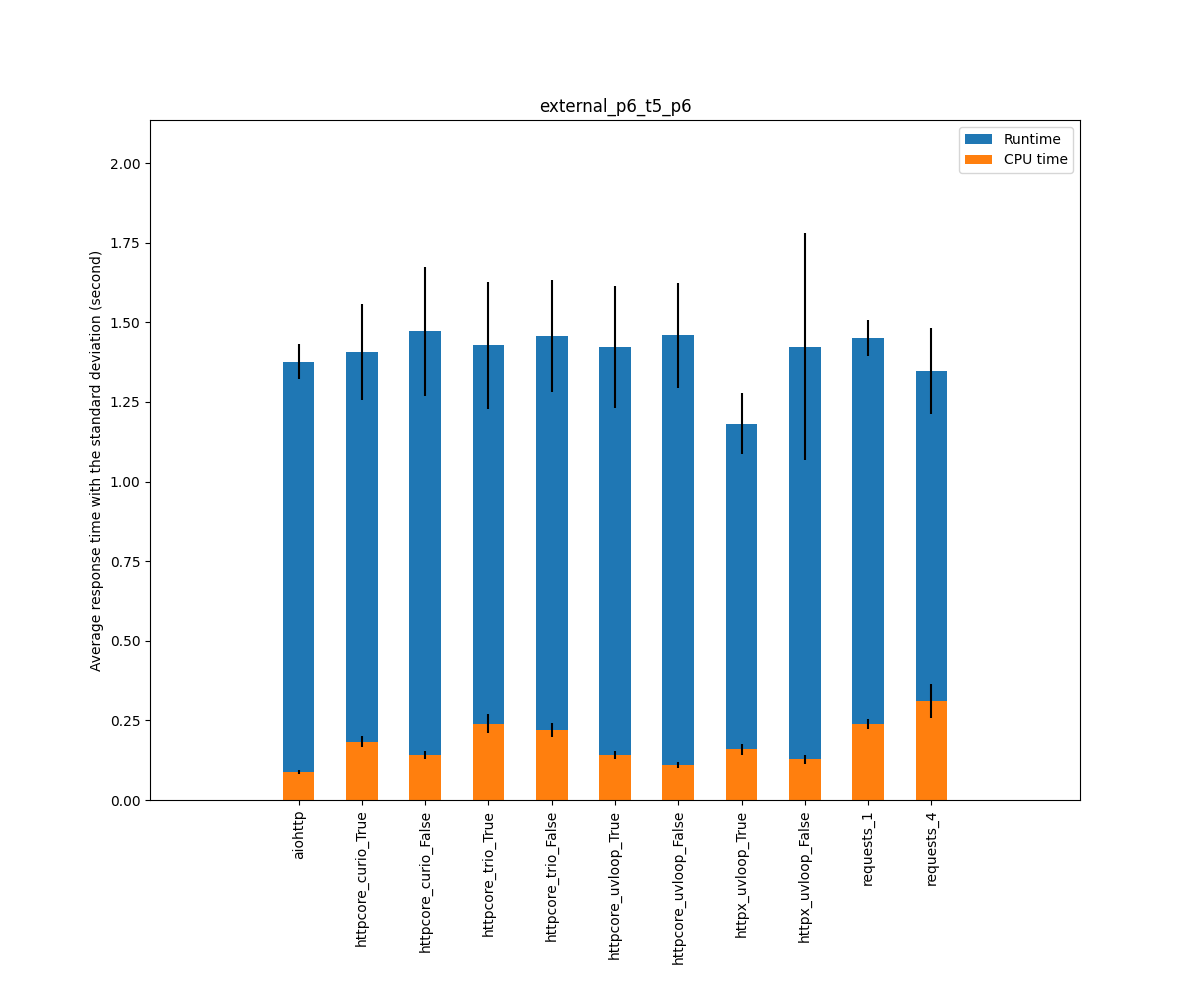
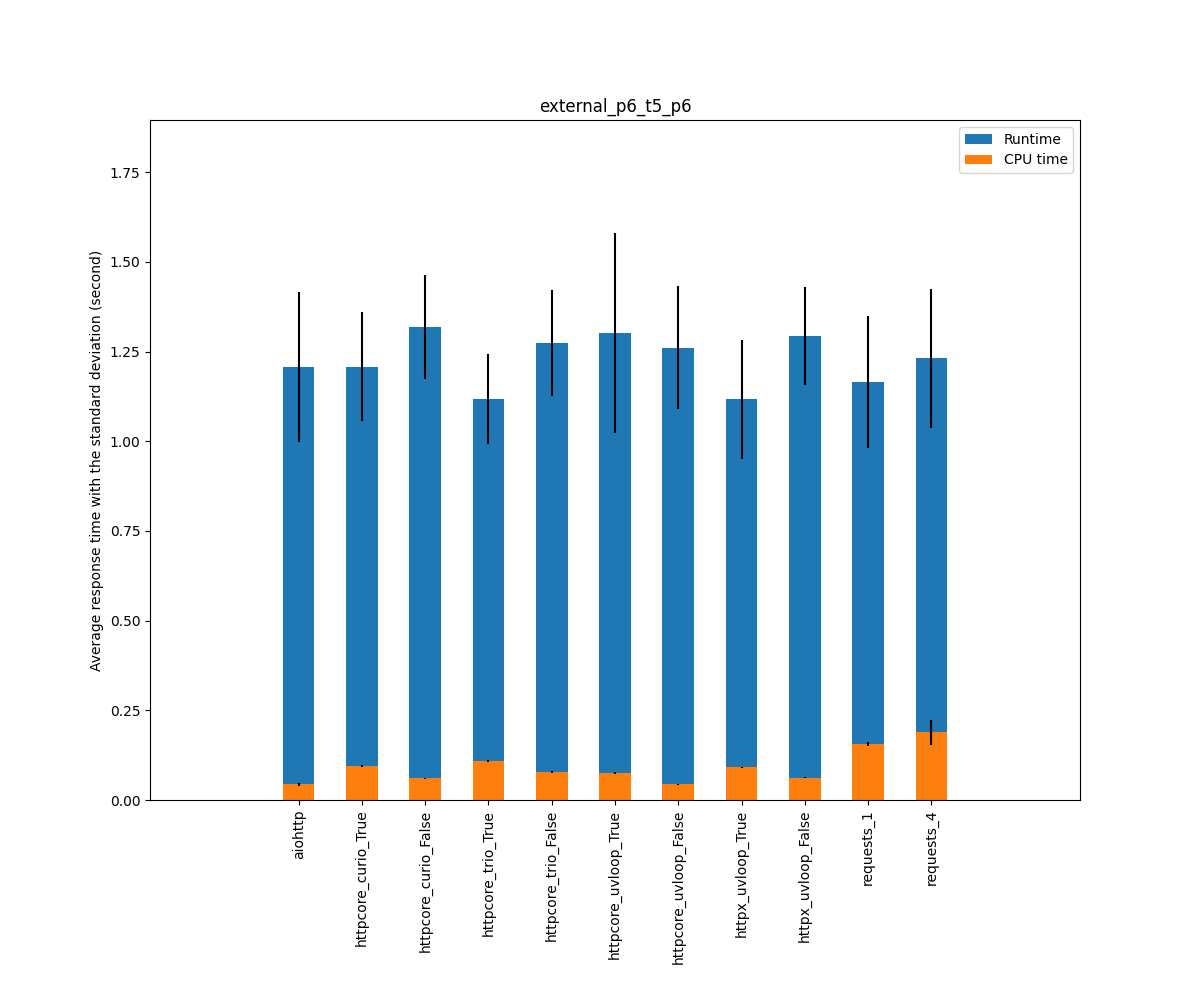
Update results, httpx 0.18.1

diff --git a/results/output.md b/results/output.md
@@ -1,13 +1,13 @@
 ## Versions
 
-* Python                         3.8.5 (default, Jul 28 2020, 12:59:40) [GCC 9.3.0]
-* aiohttp                        3.7.3
-* httpx                          0.16.1
-* httpcore                       0.12.2
-* requests                       2.25.0
-* uvloop                         0.14.0
-* trio                           0.17.0
-* curio                          1.4
+* Python                         3.9.5 (default, Jun  7 2021, 19:22:50) [GCC 8.3.0]
+* aiohttp                        3.7.4.post0
+* httpx                          0.18.1
+* httpcore                       0.13.3
+* requests                       2.25.1
+* uvloop                         0.15.2
+* trio                           0.18.0
+* curio                          1.5
 
 ## Context
 
@@ -15,23 +15,25 @@
 * Scenarios: external_p6_t5_p6, p6-8-5_t5_p6-8-5, p6-400-5_t5_p6-400-5, p100-2-5_t5_p100-2-5, s100_1_0, s100_2_0, s100_256_0, s100_1024_0, s30_8_4, p100_2048_5_t20_p100_2048_5, p60_1024_5
 * Tries: default
 
+Downloading https://github.com/caddyserver/caddy/releases/download/v2.1.1/caddy_2.1.1_linux_amd64.tar.gz 
+ to /home/alexandre/.cache/pyhttpbenchmark/bin/caddy
 
 ## Scenario external_p6_t5_p6: External requests: Two sequences of searx requests, 0.5s in between
 
 |                                  | Runtime |         |         | Cputime |         |         |
 |----------------------------------|---------|---------|---------|---------|---------|---------|
 |                                  |  median |    mean |   stdev |  median |    mean |   stdev |
-| aiohttp                          |    1.39 |    1.38 |    0.06 |    0.09 |    0.09 |    0.01 |
-| httpcore_curio_True              |    1.36 |    1.41 |    0.15 |    0.19 |    0.18 |    0.02 |
-| httpcore_curio_False             |    1.43 |    1.47 |    0.20 |    0.14 |    0.14 |    0.01 |
-| httpcore_trio_True               |    1.42 |    1.43 |    0.20 |    0.25 |    0.24 |    0.03 |
-| httpcore_trio_False              |    1.47 |    1.46 |    0.18 |    0.23 |    0.22 |    0.02 |
-| httpcore_uvloop_True             |    1.34 |    1.42 |    0.19 |    0.14 |    0.14 |    0.01 |
-| httpcore_uvloop_False            |    1.52 |    1.46 |    0.16 |    0.11 |    0.11 |    0.01 |
-| httpx_uvloop_True                |    1.17 |    1.18 |    0.09 |    0.16 |    0.16 |    0.02 |
-| httpx_uvloop_False               |    1.31 |    1.42 |    0.36 |    0.13 |    0.13 |    0.01 |
-| requests_1                       |    1.45 |    1.45 |    0.06 |    0.24 |    0.24 |    0.02 |
-| requests_4                       |    1.32 |    1.35 |    0.14 |    0.31 |    0.31 |    0.05 |
+| aiohttp                          |    1.16 |    1.21 |    0.21 |    0.04 |    0.04 |    0.00 |
+| httpcore_curio_True              |    1.23 |    1.21 |    0.15 |    0.10 |    0.09 |    0.00 |
+| httpcore_curio_False             |    1.36 |    1.32 |    0.15 |    0.06 |    0.06 |    0.00 |
+| httpcore_trio_True               |    1.10 |    1.12 |    0.13 |    0.11 |    0.11 |    0.00 |
+| httpcore_trio_False              |    1.35 |    1.27 |    0.15 |    0.08 |    0.08 |    0.00 |
+| httpcore_uvloop_True             |    1.31 |    1.30 |    0.28 |    0.08 |    0.08 |    0.00 |
+| httpcore_uvloop_False            |    1.36 |    1.26 |    0.17 |    0.04 |    0.04 |    0.00 |
+| httpx_uvloop_True                |    1.10 |    1.12 |    0.17 |    0.09 |    0.09 |    0.00 |
+| httpx_uvloop_False               |    1.35 |    1.29 |    0.14 |    0.06 |    0.06 |    0.00 |
+| requests_1                       |    1.16 |    1.17 |    0.18 |    0.16 |    0.16 |    0.00 |
+| requests_4                       |    1.18 |    1.23 |    0.19 |    0.19 |    0.19 |    0.04 |
 
 ![external_p6_t5_p6](external_p6_t5_p6.png)
 
@@ -41,17 +43,17 @@
 |                                  | Runtime |         |         | Cputime |         |         |
 |----------------------------------|---------|---------|---------|---------|---------|---------|
 |                                  |  median |    mean |   stdev |  median |    mean |   stdev |
-| aiohttp                          |    1.42 |    1.42 |    0.01 |    0.04 |    0.04 |    0.00 |
-| httpcore_curio_True              |    1.41 |    1.41 |    0.00 |    0.08 |    0.08 |    0.00 |
-| httpcore_curio_False             |    1.43 |    1.43 |    0.01 |    0.06 |    0.07 |    0.01 |
-| httpcore_trio_True               |    1.42 |    1.42 |    0.00 |    0.10 |    0.10 |    0.00 |
-| httpcore_trio_False              |    1.44 |    1.44 |    0.01 |    0.10 |    0.09 |    0.01 |
-| httpcore_uvloop_True             |    1.42 |    1.42 |    0.00 |    0.06 |    0.06 |    0.00 |
-| httpcore_uvloop_False            |    1.42 |    1.42 |    0.01 |    0.04 |    0.04 |    0.00 |
-| httpx_uvloop_True                |    1.43 |    1.42 |    0.00 |    0.08 |    0.08 |    0.01 |
-| httpx_uvloop_False               |    1.43 |    1.43 |    0.01 |    0.08 |    0.07 |    0.00 |
-| requests_1                       |    1.45 |    1.44 |    0.01 |    0.10 |    0.10 |    0.01 |
-| requests_4                       |    1.44 |    1.44 |    0.01 |    0.10 |    0.10 |    0.02 |
+| aiohttp                          |    1.42 |    1.42 |    0.00 |    0.03 |    0.03 |    0.00 |
+| httpcore_curio_True              |    1.41 |    1.41 |    0.00 |    0.07 |    0.07 |    0.00 |
+| httpcore_curio_False             |    1.46 |    1.46 |    0.00 |    0.05 |    0.05 |    0.00 |
+| httpcore_trio_True               |    1.41 |    1.41 |    0.00 |    0.08 |    0.08 |    0.00 |
+| httpcore_trio_False              |    1.43 |    1.43 |    0.00 |    0.07 |    0.07 |    0.00 |
+| httpcore_uvloop_True             |    1.41 |    1.41 |    0.00 |    0.05 |    0.05 |    0.00 |
+| httpcore_uvloop_False            |    1.42 |    1.42 |    0.00 |    0.03 |    0.03 |    0.00 |
+| httpx_uvloop_True                |    1.41 |    1.41 |    0.00 |    0.07 |    0.07 |    0.00 |
+| httpx_uvloop_False               |    1.42 |    1.42 |    0.00 |    0.05 |    0.05 |    0.00 |
+| requests_1                       |    1.43 |    1.43 |    0.00 |    0.07 |    0.07 |    0.00 |
+| requests_4                       |    1.43 |    1.43 |    0.00 |    0.07 |    0.07 |    0.00 |
 
 ![p6-8-5_t5_p6-8-5](p6-8-5_t5_p6-8-5.png)
 
@@ -61,17 +63,17 @@
 |                                  | Runtime |         |         | Cputime |         |         |
 |----------------------------------|---------|---------|---------|---------|---------|---------|
 |                                  |  median |    mean |   stdev |  median |    mean |   stdev |
-| aiohttp                          |    1.44 |    1.44 |    0.01 |    0.10 |    0.10 |    0.01 |
-| httpcore_curio_True              |    1.44 |    1.43 |    0.01 |    0.28 |    0.28 |    0.02 |
-| httpcore_curio_False             |    1.44 |    1.44 |    0.00 |    0.17 |    0.16 |    0.01 |
-| httpcore_trio_True               |    1.45 |    1.45 |    0.01 |    0.32 |    0.32 |    0.02 |
-| httpcore_trio_False              |    1.45 |    1.45 |    0.01 |    0.25 |    0.25 |    0.01 |
-| httpcore_uvloop_True             |    1.43 |    1.43 |    0.01 |    0.15 |    0.15 |    0.02 |
-| httpcore_uvloop_False            |    1.43 |    1.43 |    0.01 |    0.10 |    0.10 |    0.01 |
-| httpx_uvloop_True                |    1.44 |    1.44 |    0.01 |    0.19 |    0.20 |    0.01 |
-| httpx_uvloop_False               |    1.44 |    1.44 |    0.01 |    0.17 |    0.17 |    0.02 |
-| requests_1                       |    1.44 |    1.44 |    0.01 |    0.17 |    0.16 |    0.02 |
-| requests_4                       |    1.44 |    1.44 |    0.01 |    0.16 |    0.16 |    0.03 |
+| aiohttp                          |    1.42 |    1.42 |    0.00 |    0.07 |    0.07 |    0.00 |
+| httpcore_curio_True              |    1.42 |    1.42 |    0.00 |    0.22 |    0.22 |    0.00 |
+| httpcore_curio_False             |    1.47 |    1.47 |    0.01 |    0.13 |    0.13 |    0.00 |
+| httpcore_trio_True               |    1.43 |    1.43 |    0.00 |    0.24 |    0.24 |    0.01 |
+| httpcore_trio_False              |    1.44 |    1.44 |    0.00 |    0.18 |    0.18 |    0.00 |
+| httpcore_uvloop_True             |    1.42 |    1.42 |    0.00 |    0.12 |    0.12 |    0.00 |
+| httpcore_uvloop_False            |    1.42 |    1.42 |    0.00 |    0.07 |    0.07 |    0.00 |
+| httpx_uvloop_True                |    1.42 |    1.42 |    0.00 |    0.15 |    0.15 |    0.00 |
+| httpx_uvloop_False               |    1.43 |    1.43 |    0.00 |    0.12 |    0.12 |    0.00 |
+| requests_1                       |    1.43 |    1.43 |    0.00 |    0.13 |    0.13 |    0.00 |
+| requests_4                       |    1.43 |    1.43 |    0.00 |    0.13 |    0.13 |    0.00 |
 
 ![p6-400-5_t5_p6-400-5](p6-400-5_t5_p6-400-5.png)
 
@@ -81,17 +83,17 @@
 |                                  | Runtime |         |         | Cputime |         |         |
 |----------------------------------|---------|---------|---------|---------|---------|---------|
 |                                  |  median |    mean |   stdev |  median |    mean |   stdev |
-| aiohttp                          |    1.95 |    1.93 |    0.05 |    0.37 |    0.37 |    0.05 |
-| httpcore_curio_True              |    1.48 |    1.48 |    0.02 |    0.45 |    0.43 |    0.06 |
-| httpcore_curio_False             |    1.66 |    1.67 |    0.05 |    0.70 |    0.70 |    0.10 |
-| httpcore_trio_True               |    1.49 |    1.49 |    0.01 |    0.49 |    0.48 |    0.05 |
-| httpcore_trio_False              |    1.63 |    1.64 |    0.04 |    0.73 |    0.73 |    0.05 |
-| httpcore_uvloop_True             |    1.49 |    1.49 |    0.02 |    0.27 |    0.26 |    0.04 |
-| httpcore_uvloop_False            |    1.60 |    1.60 |    0.03 |    0.41 |    0.41 |    0.04 |
-| httpx_uvloop_True                |    1.49 |    1.49 |    0.01 |    0.43 |    0.41 |    0.04 |
-| httpx_uvloop_False               |    1.96 |    1.96 |    0.02 |    0.76 |    0.76 |    0.04 |
-| requests_1                       |    1.64 |    1.66 |    0.05 |    0.98 |    1.02 |    0.12 |
-| requests_4                       |    1.68 |    1.75 |    0.20 |    1.03 |    1.16 |    0.33 |
+| aiohttp                          |    1.96 |    1.96 |    0.03 |    0.30 |    0.29 |    0.00 |
+| httpcore_curio_True              |    1.47 |    1.47 |    0.01 |    0.34 |    0.34 |    0.01 |
+| httpcore_curio_False             |    1.64 |    1.64 |    0.01 |    0.58 |    0.58 |    0.01 |
+| httpcore_trio_True               |    1.48 |    1.48 |    0.01 |    0.46 |    0.45 |    0.01 |
+| httpcore_trio_False              |    1.63 |    1.63 |    0.00 |    0.64 |    0.64 |    0.01 |
+| httpcore_uvloop_True             |    1.47 |    1.48 |    0.01 |    0.22 |    0.23 |    0.01 |
+| httpcore_uvloop_False            |    1.60 |    1.60 |    0.01 |    0.38 |    0.38 |    0.00 |
+| httpx_uvloop_True                |    1.50 |    1.50 |    0.01 |    0.38 |    0.37 |    0.01 |
+| httpx_uvloop_False               |    1.95 |    1.96 |    0.02 |    0.66 |    0.66 |    0.01 |
+| requests_1                       |    1.68 |    1.68 |    0.01 |    0.83 |    0.83 |    0.01 |
+| requests_4                       |    1.73 |    1.72 |    0.03 |    0.89 |    0.88 |    0.02 |
 
 ![p100-2-5_t5_p100-2-5](p100-2-5_t5_p100-2-5.png)
 
@@ -101,17 +103,17 @@
 |                                  | Runtime |         |         | Cputime |         |         |
 |----------------------------------|---------|---------|---------|---------|---------|---------|
 |                                  |  median |    mean |   stdev |  median |    mean |   stdev |
-| aiohttp                          |    0.10 |    0.10 |    0.01 |    0.04 |    0.04 |    0.00 |
-| httpcore_curio_True              |    0.13 |    0.13 |    0.01 |    0.08 |    0.08 |    0.01 |
-| httpcore_curio_False             |    0.09 |    0.10 |    0.02 |    0.05 |    0.06 |    0.01 |
-| httpcore_trio_True               |    0.16 |    0.16 |    0.01 |    0.11 |    0.12 |    0.01 |
-| httpcore_trio_False              |    0.11 |    0.11 |    0.00 |    0.08 |    0.08 |    0.00 |
-| httpcore_uvloop_True             |    0.13 |    0.13 |    0.01 |    0.07 |    0.07 |    0.00 |
-| httpcore_uvloop_False            |    0.10 |    0.11 |    0.01 |    0.05 |    0.05 |    0.00 |
-| httpx_uvloop_True                |    0.17 |    0.18 |    0.02 |    0.11 |    0.11 |    0.01 |
-| httpx_uvloop_False               |    0.13 |    0.13 |    0.01 |    0.09 |    0.09 |    0.00 |
-| requests_1                       |    0.15 |    0.16 |    0.01 |    0.10 |    0.10 |    0.01 |
-| requests_4                       |    0.16 |    0.17 |    0.02 |    0.10 |    0.11 |    0.01 |
+| aiohttp                          |    0.17 |    0.17 |    0.01 |    0.07 |    0.07 |    0.00 |
+| httpcore_curio_True              |    0.29 |    0.28 |    0.01 |    0.18 |    0.18 |    0.01 |
+| httpcore_curio_False             |    0.24 |    0.24 |    0.00 |    0.12 |    0.12 |    0.00 |
+| httpcore_trio_True               |    0.33 |    0.33 |    0.01 |    0.24 |    0.24 |    0.01 |
+| httpcore_trio_False              |    0.21 |    0.21 |    0.01 |    0.14 |    0.14 |    0.00 |
+| httpcore_uvloop_True             |    0.27 |    0.28 |    0.01 |    0.15 |    0.15 |    0.01 |
+| httpcore_uvloop_False            |    0.19 |    0.19 |    0.01 |    0.09 |    0.09 |    0.01 |
+| httpx_uvloop_True                |    0.35 |    0.36 |    0.01 |    0.24 |    0.24 |    0.01 |
+| httpx_uvloop_False               |    0.22 |    0.22 |    0.01 |    0.14 |    0.14 |    0.01 |
+| requests_1                       |    0.28 |    0.28 |    0.01 |    0.17 |    0.18 |    0.01 |
+| requests_4                       |    0.33 |    0.33 |    0.03 |    0.20 |    0.20 |    0.02 |
 
 ![s100_1_0](s100_1_0.png)
 
@@ -121,17 +123,17 @@
 |                                  | Runtime |         |         | Cputime |         |         |
 |----------------------------------|---------|---------|---------|---------|---------|---------|
 |                                  |  median |    mean |   stdev |  median |    mean |   stdev |
-| aiohttp                          |    0.10 |    0.10 |    0.01 |    0.04 |    0.05 |    0.00 |
-| httpcore_curio_True              |    0.13 |    0.13 |    0.01 |    0.08 |    0.08 |    0.01 |
-| httpcore_curio_False             |    0.09 |    0.09 |    0.01 |    0.05 |    0.05 |    0.00 |
-| httpcore_trio_True               |    0.16 |    0.16 |    0.01 |    0.11 |    0.11 |    0.01 |
-| httpcore_trio_False              |    0.11 |    0.11 |    0.01 |    0.08 |    0.08 |    0.00 |
-| httpcore_uvloop_True             |    0.12 |    0.14 |    0.04 |    0.07 |    0.07 |    0.02 |
-| httpcore_uvloop_False            |    0.10 |    0.10 |    0.01 |    0.05 |    0.05 |    0.00 |
-| httpx_uvloop_True                |    0.18 |    0.19 |    0.02 |    0.12 |    0.12 |    0.01 |
-| httpx_uvloop_False               |    0.14 |    0.15 |    0.02 |    0.09 |    0.10 |    0.01 |
-| requests_1                       |    0.16 |    0.17 |    0.01 |    0.11 |    0.11 |    0.00 |
-| requests_4                       |    0.17 |    0.18 |    0.02 |    0.11 |    0.12 |    0.01 |
+| aiohttp                          |    0.18 |    0.18 |    0.01 |    0.07 |    0.08 |    0.01 |
+| httpcore_curio_True              |    0.29 |    0.29 |    0.02 |    0.18 |    0.18 |    0.01 |
+| httpcore_curio_False             |    0.24 |    0.24 |    0.00 |    0.12 |    0.12 |    0.00 |
+| httpcore_trio_True               |    0.33 |    0.33 |    0.01 |    0.24 |    0.24 |    0.01 |
+| httpcore_trio_False              |    0.20 |    0.20 |    0.00 |    0.14 |    0.14 |    0.00 |
+| httpcore_uvloop_True             |    0.28 |    0.28 |    0.02 |    0.15 |    0.15 |    0.01 |
+| httpcore_uvloop_False            |    0.19 |    0.19 |    0.01 |    0.09 |    0.09 |    0.01 |
+| httpx_uvloop_True                |    0.38 |    0.37 |    0.01 |    0.25 |    0.25 |    0.01 |
+| httpx_uvloop_False               |    0.24 |    0.24 |    0.01 |    0.15 |    0.15 |    0.01 |
+| requests_1                       |    0.30 |    0.30 |    0.01 |    0.19 |    0.19 |    0.01 |
+| requests_4                       |    0.34 |    0.33 |    0.02 |    0.20 |    0.20 |    0.01 |
 
 ![s100_2_0](s100_2_0.png)
 
@@ -141,17 +143,17 @@
 |                                  | Runtime |         |         | Cputime |         |         |
 |----------------------------------|---------|---------|---------|---------|---------|---------|
 |                                  |  median |    mean |   stdev |  median |    mean |   stdev |
-| aiohttp                          |    0.18 |    0.18 |    0.01 |    0.11 |    0.12 |    0.01 |
-| httpcore_curio_True              |    0.61 |    0.61 |    0.03 |    0.42 |    0.42 |    0.02 |
-| httpcore_curio_False             |    0.21 |    0.21 |    0.01 |    0.17 |    0.17 |    0.01 |
-| httpcore_trio_True               |    0.50 |    0.54 |    0.12 |    0.45 |    0.49 |    0.11 |
-| httpcore_trio_False              |    0.30 |    0.31 |    0.03 |    0.26 |    0.27 |    0.02 |
-| httpcore_uvloop_True             |    0.23 |    0.23 |    0.01 |    0.17 |    0.17 |    0.01 |
-| httpcore_uvloop_False            |    0.16 |    0.16 |    0.01 |    0.11 |    0.11 |    0.01 |
-| httpx_uvloop_True                |    0.35 |    0.35 |    0.03 |    0.28 |    0.28 |    0.02 |
-| httpx_uvloop_False               |    0.26 |    0.27 |    0.02 |    0.21 |    0.21 |    0.01 |
-| requests_1                       |    0.22 |    0.23 |    0.01 |    0.17 |    0.17 |    0.01 |
-| requests_4                       |    0.24 |    0.25 |    0.01 |    0.18 |    0.18 |    0.00 |
+| aiohttp                          |    0.52 |    0.55 |    0.14 |    0.23 |    0.23 |    0.01 |
+| httpcore_curio_True              |    0.99 |    0.98 |    0.07 |    0.79 |    0.79 |    0.02 |
+| httpcore_curio_False             |    0.81 |    0.95 |    0.57 |    0.36 |    0.37 |    0.05 |
+| httpcore_trio_True               |    1.01 |    1.03 |    0.07 |    0.90 |    0.89 |    0.02 |
+| httpcore_trio_False              |    1.20 |    1.36 |    0.67 |    0.57 |    0.59 |    0.08 |
+| httpcore_uvloop_True             |    0.51 |    0.52 |    0.06 |    0.36 |    0.36 |    0.01 |
+| httpcore_uvloop_False            |    1.66 |    1.63 |    0.54 |    0.29 |    0.29 |    0.02 |
+| httpx_uvloop_True                |    1.21 |    1.14 |    0.23 |    0.58 |    0.58 |    0.02 |
+| httpx_uvloop_False               |    0.87 |    1.02 |    0.39 |    0.45 |    0.45 |    0.04 |
+| requests_1                       |    0.75 |    0.78 |    0.23 |    0.36 |    0.37 |    0.03 |
+| requests_4                       |    0.70 |    0.67 |    0.21 |    0.38 |    0.37 |    0.04 |
 
 ![s100_256_0](s100_256_0.png)
 
@@ -161,17 +163,17 @@
 |                                  | Runtime |         |         | Cputime |         |         |
 |----------------------------------|---------|---------|---------|---------|---------|---------|
 |                                  |  median |    mean |   stdev |  median |    mean |   stdev |
-| aiohttp                          |    0.39 |    0.40 |    0.02 |    0.31 |    0.32 |    0.02 |
-| httpcore_curio_True              |    1.72 |    1.74 |    0.09 |    1.36 |    1.37 |    0.08 |
-| httpcore_curio_False             |    0.57 |    0.58 |    0.02 |    0.53 |    0.54 |    0.02 |
-| httpcore_trio_True               |    1.55 |    1.57 |    0.09 |    1.49 |    1.51 |    0.09 |
-| httpcore_trio_False              |    0.92 |    0.90 |    0.06 |    0.88 |    0.85 |    0.06 |
-| httpcore_uvloop_True             |    0.52 |    0.53 |    0.04 |    0.45 |    0.46 |    0.03 |
-| httpcore_uvloop_False            |    0.38 |    0.38 |    0.01 |    0.32 |    0.32 |    0.01 |
-| httpx_uvloop_True                |    0.84 |    0.85 |    0.07 |    0.75 |    0.76 |    0.07 |
-| httpx_uvloop_False               |    0.64 |    0.64 |    0.03 |    0.57 |    0.57 |    0.03 |
-| requests_1                       |    0.55 |    0.56 |    0.03 |    0.47 |    0.48 |    0.02 |
-| requests_4                       |    0.56 |    0.58 |    0.06 |    0.48 |    0.50 |    0.05 |
+| aiohttp                          |    1.00 |    1.00 |    0.20 |    0.60 |    0.60 |    0.01 |
+| httpcore_curio_True              |    2.94 |    3.00 |    0.26 |    2.33 |    2.34 |    0.06 |
+| httpcore_curio_False             |    1.21 |    1.37 |    0.39 |    1.01 |    1.02 |    0.04 |
+| httpcore_trio_True               |    2.91 |    3.05 |    0.30 |    2.70 |    2.71 |    0.05 |
+| httpcore_trio_False              |    1.74 |    1.92 |    0.37 |    1.55 |    1.55 |    0.04 |
+| httpcore_uvloop_True             |    1.31 |    1.40 |    0.30 |    0.96 |    0.96 |    0.02 |
+| httpcore_uvloop_False            |    1.20 |    1.24 |    0.40 |    0.61 |    0.62 |    0.02 |
+| httpx_uvloop_True                |    1.87 |    1.94 |    0.36 |    1.36 |    1.35 |    0.04 |
+| httpx_uvloop_False               |    1.41 |    1.45 |    0.18 |    1.10 |    1.09 |    0.02 |
+| requests_1                       |    1.23 |    1.25 |    0.15 |    0.94 |    0.93 |    0.02 |
+| requests_4                       |    1.25 |    1.40 |    0.45 |    0.93 |    0.94 |    0.03 |
 
 ![s100_1024_0](s100_1024_0.png)
 
@@ -181,17 +183,17 @@
 |                                  | Runtime |         |         | Cputime |         |         |
 |----------------------------------|---------|---------|---------|---------|---------|---------|
 |                                  |  median |    mean |   stdev |  median |    mean |   stdev |
-| aiohttp                          |    0.46 |    0.46 |    0.02 |    0.05 |    0.05 |    0.01 |
-| httpcore_curio_True              |    0.44 |    0.45 |    0.01 |    0.05 |    0.05 |    0.01 |
-| httpcore_curio_False             |    0.46 |    0.46 |    0.01 |    0.07 |    0.08 |    0.01 |
-| httpcore_trio_True               |    0.45 |    0.46 |    0.01 |    0.06 |    0.06 |    0.01 |
-| httpcore_trio_False              |    0.48 |    0.47 |    0.01 |    0.11 |    0.11 |    0.01 |
-| httpcore_uvloop_True             |    0.43 |    0.43 |    0.01 |    0.03 |    0.04 |    0.01 |
-| httpcore_uvloop_False            |    0.46 |    0.46 |    0.01 |    0.06 |    0.05 |    0.01 |
-| httpx_uvloop_True                |    0.45 |    0.45 |    0.01 |    0.05 |    0.05 |    0.01 |
-| httpx_uvloop_False               |    0.47 |    0.46 |    0.01 |    0.10 |    0.09 |    0.01 |
-| requests_1                       |    0.49 |    0.48 |    0.01 |    0.18 |    0.18 |    0.02 |
-| requests_4                       |    0.50 |    0.49 |    0.01 |    0.20 |    0.19 |    0.02 |
+| aiohttp                          |    0.46 |    0.46 |    0.02 |    0.05 |    0.05 |    0.00 |
+| httpcore_curio_True              |    0.50 |    0.50 |    0.00 |    0.06 |    0.06 |    0.00 |
+| httpcore_curio_False             |    0.52 |    0.52 |    0.00 |    0.10 |    0.10 |    0.00 |
+| httpcore_trio_True               |    0.46 |    0.46 |    0.00 |    0.07 |    0.07 |    0.00 |
+| httpcore_trio_False              |    0.48 |    0.48 |    0.00 |    0.12 |    0.12 |    0.00 |
+| httpcore_uvloop_True             |    0.44 |    0.44 |    0.00 |    0.04 |    0.04 |    0.00 |
+| httpcore_uvloop_False            |    0.46 |    0.46 |    0.00 |    0.05 |    0.05 |    0.00 |
+| httpx_uvloop_True                |    0.46 |    0.46 |    0.01 |    0.07 |    0.07 |    0.00 |
+| httpx_uvloop_False               |    0.46 |    0.46 |    0.01 |    0.09 |    0.09 |    0.00 |
+| requests_1                       |    0.50 |    0.50 |    0.00 |    0.16 |    0.16 |    0.00 |
+| requests_4                       |    0.50 |    0.50 |    0.00 |    0.16 |    0.16 |    0.00 |
 
 ![s30_8_4](s30_8_4.png)
 
@@ -201,17 +203,17 @@
 |                                  | Runtime |         |         | Cputime |         |         |
 |----------------------------------|---------|---------|---------|---------|---------|---------|
 |                                  |  median |    mean |   stdev |  median |    mean |   stdev |
-| aiohttp                          |    3.03 |    3.03 |    0.01 |    0.74 |    0.74 |    0.04 |
-| httpcore_curio_True              |    3.18 |    3.19 |    0.01 |    1.56 |    1.56 |    0.04 |
-| httpcore_curio_False             |    3.02 |    3.02 |    0.00 |    1.08 |    1.08 |    0.02 |
-| httpcore_trio_True               |    3.22 |    3.26 |    0.10 |    1.78 |    1.84 |    0.20 |
-| httpcore_trio_False              |    3.07 |    3.08 |    0.01 |    1.38 |    1.38 |    0.04 |
-| httpcore_uvloop_True             |    3.06 |    3.06 |    0.02 |    0.82 |    0.83 |    0.03 |
-| httpcore_uvloop_False            |    3.02 |    3.02 |    0.01 |    0.72 |    0.72 |    0.02 |
-| httpx_uvloop_True                |    3.15 |    3.14 |    0.01 |    1.16 |    1.16 |    0.02 |
-| httpx_uvloop_False               |    3.07 |    3.07 |    0.01 |    1.20 |    1.22 |    0.06 |
-| requests_1                       |    3.26 |    3.25 |    0.09 |    2.66 |    2.72 |    0.40 |
-| requests_4                       |    3.34 |    3.39 |    0.23 |    3.11 |    3.11 |    0.65 |
+| aiohttp                          |    3.04 |    3.04 |    0.00 |    0.75 |    0.75 |    0.01 |
+| httpcore_curio_True              |    3.58 |    3.58 |    0.01 |    2.48 |    2.48 |    0.03 |
+| httpcore_curio_False             |    3.08 |    3.08 |    0.00 |    1.28 |    1.28 |    0.01 |
+| httpcore_trio_True               |    3.69 |    3.69 |    0.01 |    2.73 |    2.74 |    0.02 |
+| httpcore_trio_False              |    3.16 |    3.16 |    0.00 |    1.74 |    1.73 |    0.01 |
+| httpcore_uvloop_True             |    3.11 |    3.11 |    0.00 |    1.05 |    1.05 |    0.01 |
+| httpcore_uvloop_False            |    3.04 |    3.04 |    0.01 |    0.74 |    0.74 |    0.01 |
+| httpx_uvloop_True                |    3.25 |    3.25 |    0.01 |    1.60 |    1.60 |    0.01 |
+| httpx_uvloop_False               |    3.14 |    3.14 |    0.01 |    1.42 |    1.42 |    0.01 |
+| requests_1                       |    3.09 |    3.09 |    0.01 |    1.61 |    1.60 |    0.02 |
+| requests_4                       |    3.20 |    3.17 |    0.05 |    1.71 |    1.69 |    0.05 |
 
 ![p100_2048_5_t20_p100_2048_5](p100_2048_5_t20_p100_2048_5.png)
 
@@ -221,17 +223,16 @@
 |                                  | Runtime |         |         | Cputime |         |         |
 |----------------------------------|---------|---------|---------|---------|---------|---------|
 |                                  |  median |    mean |   stdev |  median |    mean |   stdev |
-| aiohttp                          |    1.05 |    1.05 |    0.02 |    0.39 |    0.40 |    0.02 |
-| httpcore_curio_True              |    1.21 |    1.21 |    0.01 |    0.84 |    0.84 |    0.01 |
-| httpcore_curio_False             |    1.07 |    1.07 |    0.02 |    0.52 |    0.53 |    0.02 |
-| httpcore_trio_True               |    1.31 |    1.31 |    0.04 |    0.94 |    0.94 |    0.04 |
-| httpcore_trio_False              |    1.07 |    1.07 |    0.02 |    0.70 |    0.70 |    0.01 |
-| httpcore_uvloop_True             |    0.99 |    0.99 |    0.01 |    0.44 |    0.44 |    0.01 |
-| httpcore_uvloop_False            |    1.05 |    1.06 |    0.02 |    0.38 |    0.38 |    0.01 |
-| httpx_uvloop_True                |    1.06 |    1.05 |    0.01 |    0.61 |    0.61 |    0.02 |
-| httpx_uvloop_False               |    1.03 |    1.03 |    0.02 |    0.54 |    0.55 |    0.03 |
-| requests_1                       |    1.12 |    1.15 |    0.14 |    1.17 |    1.38 |    0.38 |
-| requests_4                       |    1.09 |    1.17 |    0.14 |    1.28 |    1.41 |    0.39 |
+| aiohttp                          |    1.06 |    1.06 |    0.01 |    0.41 |    0.41 |    0.01 |
+| httpcore_curio_True              |    1.77 |    1.77 |    0.01 |    1.39 |    1.39 |    0.01 |
+| httpcore_curio_False             |    1.16 |    1.16 |    0.01 |    0.69 |    0.69 |    0.01 |
+| httpcore_trio_True               |    1.87 |    1.87 |    0.01 |    1.51 |    1.51 |    0.01 |
+| httpcore_trio_False              |    1.23 |    1.23 |    0.01 |    0.95 |    0.95 |    0.01 |
+| httpcore_uvloop_True             |    1.04 |    1.04 |    0.00 |    0.56 |    0.57 |    0.01 |
+| httpcore_uvloop_False            |    1.06 |    1.06 |    0.01 |    0.38 |    0.39 |    0.00 |
+| httpx_uvloop_True                |    1.26 |    1.26 |    0.01 |    0.88 |    0.88 |    0.01 |
+| httpx_uvloop_False               |    1.06 |    1.06 |    0.01 |    0.67 |    0.67 |    0.00 |
+| requests_1                       |    1.11 |    1.11 |    0.01 |    0.76 |    0.77 |    0.02 |
+| requests_4                       |    1.10 |    1.10 |    0.02 |    0.76 |    0.77 |    0.01 |
 
 ![p60_1024_5](p60_1024_5.png)
-
